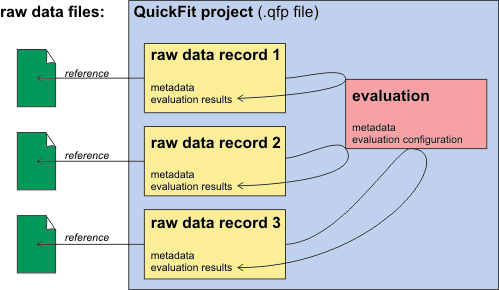
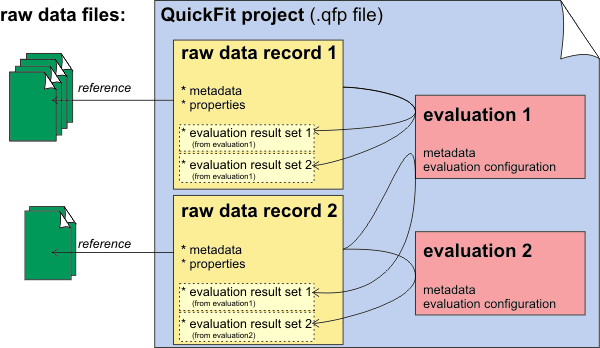
QuickFit: improved online help
git-svn-id: https://www.dkfz.de/svn/B040/FCSTOOLS/trunk/QuickFit3@1340 0d8be23c-4016-4ca5-a69c-3788035ecc6c

diff --git a/application/help/qf3_projects.html b/application/help/qf3_projects.html
@@ -10,14 +10,10 @@ $$qf_commondoc_header.start$$ $$qf_commondoc_header.end$$
 <h2>QuickFit $$version$$ Projects (Data Model)</h2>
 <p>Quickfit $$version$$ is based on a very simple and versatile data model:</p>
 <center><img src="./pic/qf3_datamodel.png"></center>
-<p>All data is organized in projects and at every time one project is loaded in QuickFit. A project is saved in an .qfp file (an XML file) which contains all data (like e.g. links to all data files used in the project, fit results, ...). Usually it does not contain the raw data. These are stored in separate files and should usually not be altered, when saving or changing the project (exception may be data files, created by QuickFit itself). Also the data files whould be located in the same directory as the project (or in sub directories of the project direcory), so you may copy the whole set of project+data files to another machine.</p>
-<p>There are only two basic types of objects in a project:
- <ul>
-   <li><b>raw data records</b> which represents any type of data. </li>
-   <li>data <b>evaluations</b> which work on one or more data objects from the list of raw data records. The results of such an evaluation step are usually saved in the project file.</li>
- </ul>
-</p>
-<p>It is important to note that a single evaluation may act upon any of the raw data records. As the evaluation results are usually stored together with the raw data record they belong to, this may be used to e.g. compare different evaluations of the same type, but with different parameters (e.g. fit with different models to the same data). Every fit result gets a unique identifier which relates it to the evaluation object that created it. So together with each raw data record QuickFit may save multiple fit results which were created by different evaluations and does not mix them up!</p>
+<p>The raw data is (usually) loaded from external files. Inside QuickFit the raw data is represented as <b>"raw data records"</b>. If the data is transformed by QuickFit, this either happens soleily in memory or the transformed is saved in a separate file, so the input files are <u>never</u> altered by QuickFit. Each raw data record (may e.g. correspond to a file or a part of a file) may be annotated by the user with a name (used to access the raw data record program-wide, by default this is usually simpy the filename), a description (free text) and a set of "properties" which are <tt>&lt;name, value&gt;</tt> pairs (these could e.g. save the temperature or other settings at which the measurement was taken). These are the only data-independent properties available. Additional possibilities may be implemented by a special raw data plugin and their documentation can be found <a href="plugin_list.html">there</a>.</p>
+<p>In addition <b>"evaluation objects"</b> exist in QuickFit which encapsulate a data evaluation method (e.g. a fit algorithm together with a certain model and settings for those). These may be applied to a raw data record. the results will usually be saved together with the raw data record (as a "evaluation result set"). You may create and use as many evaluation objects as you want. This way you can e.g. compare the fit of a given raw data record to different models, as the results are save specific to each evaluation object, not only the method itself.</p>
+<p>Quickfit summarizes these raw data records and the data evaluations in a project. The project can be saved (<tt>.qfp</tt> file), so you can reload it without loosing any data lateron. The project file will usually not contain the data, but only references to the external files (as relative links, so you can simply copy the project+files between different computers, as long as their relative positions stays the same). But it will contain all evaluation results, annotations and properties.<br>
+The projects are saved in an .qfp file, which contains the data in the (mostly) human-readable XML format. So you can still extract data, even if QuickFit is not available, as most tags in the qfp-file are self-explanatory. </p>
 
 </body>
 </html>

diff --git a/application/help/qf3_rdrscreen.html b/application/help/qf3_rdrscreen.html
@@ -16,12 +16,13 @@ The screen shows at least three tabs at the top. The button <b><img src=":/help.
 <a name="#properties"><h2>Properties</h2>
 <p>The first tab <b>Properties</b> (see image above) may be used to enter these:
 <ul>
-<li>the internal unique ID (an integer number) of the raw data record</li>
-<li>a desciption of the evaluation type </li>
-<li>a name for the raw data record (which will also appear in the project tree)</li>
-<li>a description text. In the description you may e.g. note how the data was taken, which experiment you did, which instruments you used, ...</li>
-<li>a list of all files associated with the record. Although these files are shown with their absolute path, only relative pathes are saved in the project where possible (e.g. when the files are on the same drive as the project file on a windows system).</li>
-<li>a list of properties. A property is key/name (string) together with an arbitrary value (string, integer,floating-point number, boolean) that may e.g. be used to describe some additional information about the record, or the ambient conditions of the experiment, or any metadata, you like. These values are readable by evaluations. You may add a new property using the <img src=":/lib/prop_add.png"> button to add a new property and <img src=":/lib/prop_delete.png"> to remove the selected proeprty. You may edit the property value directly in the table, but note that some properties may be system-properties and are not editable. Any property you added by hand is editable in any case. </li>
+<li>the <em>internal unique ID</em> (an integer number) of the raw data record</li>
+<li>a <em>desciption of the evaluation type</em> </li>
+<li>a <em>name</em> for the raw data record (which will also appear in the project tree)</li>
+<li>a <em>description text</em>. In the description you may e.g. note how the data was taken, which experiment you did, which instruments you used, ...</li>
+<li>a <em>path</em> (with slash '<tt>/</tt>' as separator), which is used to group the records in the project tree. Simply enter a path like "<tt>mypath/subfolder</tt>" and the record will be inside the folders <tt>mypath</tt> and the <tt>subfolder</tt> below the raw data record nodes.</li>
+<li>a <em>list of all files</em> associated with the record. Although these files are shown with their absolute path, only relative pathes are saved in the project where possible (e.g. when the files are on the same drive as the project file on a windows system).</li>
+<li>a list of <em>properties</em>. A property is key/name (string) together with an arbitrary value (string, integer,floating-point number, boolean) that may e.g. be used to describe some additional information about the record, or the ambient conditions of the experiment, or any metadata, you like. These values are readable by evaluations. You may add a new property using the <img src=":/lib/prop_add.png"> button to add a new property and <img src=":/lib/prop_delete.png"> to remove the selected proeprty. You may edit the property value directly in the table, but note that some properties may be system-properties and are not editable. Any property you added by hand is editable in any case. </li>
 </ul>
 </p> 
 <p> </p>
